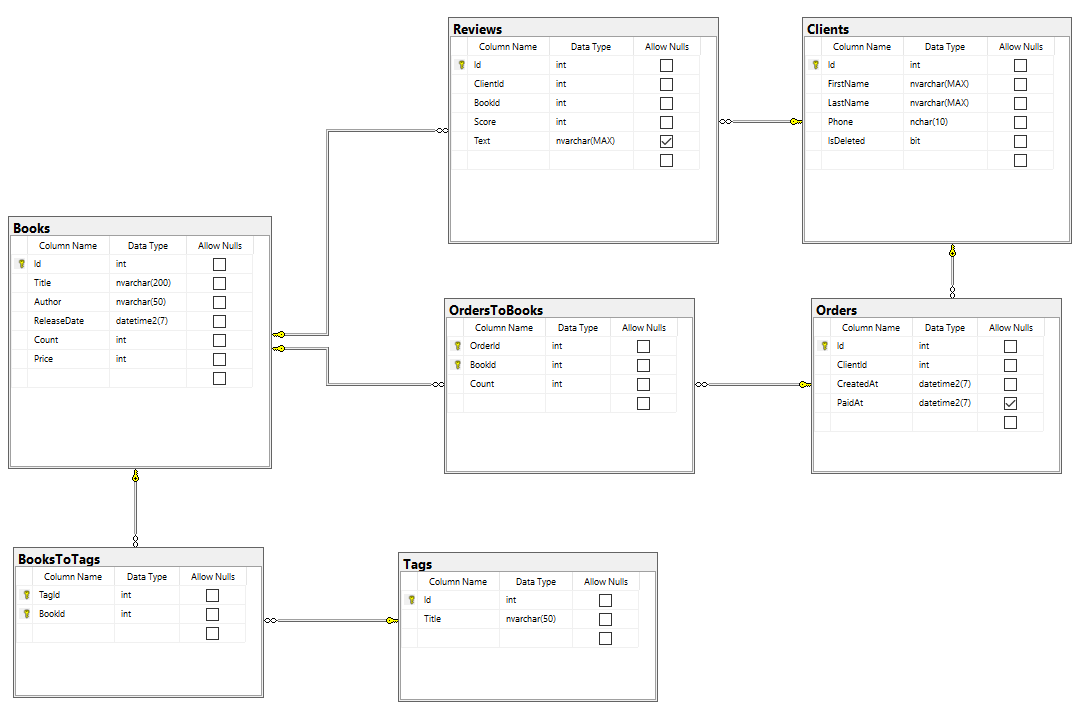
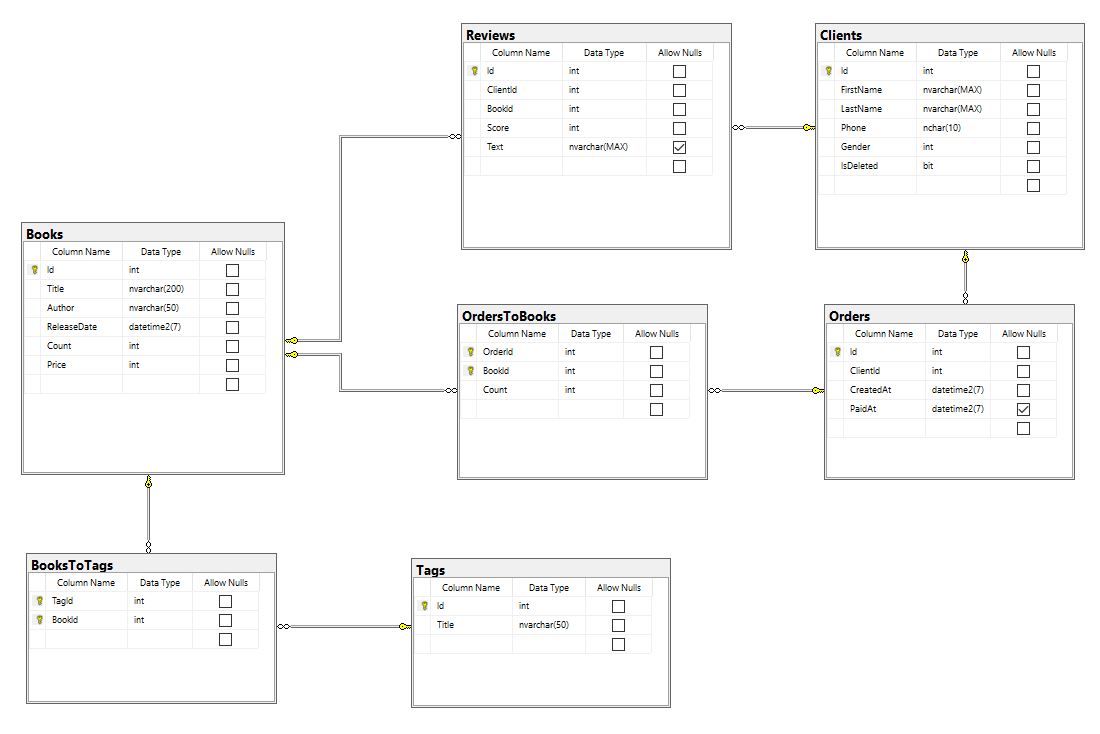
fix gender

diff --git a/DatabaseClient/Models/Client.cs b/DatabaseClient/Models/Client.cs
@@ -17,18 +17,11 @@ public class Client : IEntity
 
     public string Phone { get; set; }
 
-    public bool Sex { get; set; }
+    public Gender Gender { get; set; }
 
     public bool IsDeleted { get; set; }
 
     public virtual ICollection<Order> Orders { get; set; } = new List<Order>();
 
     public virtual ICollection<Review> Reviews { get; set; } = new List<Review>();
-
-    [NotMapped]
-    public Gender Gender
-    {
-        get => Sex ? Gender.Female : Gender.Male;
-        set => Sex = value == Gender.Female;
-    }
 }
